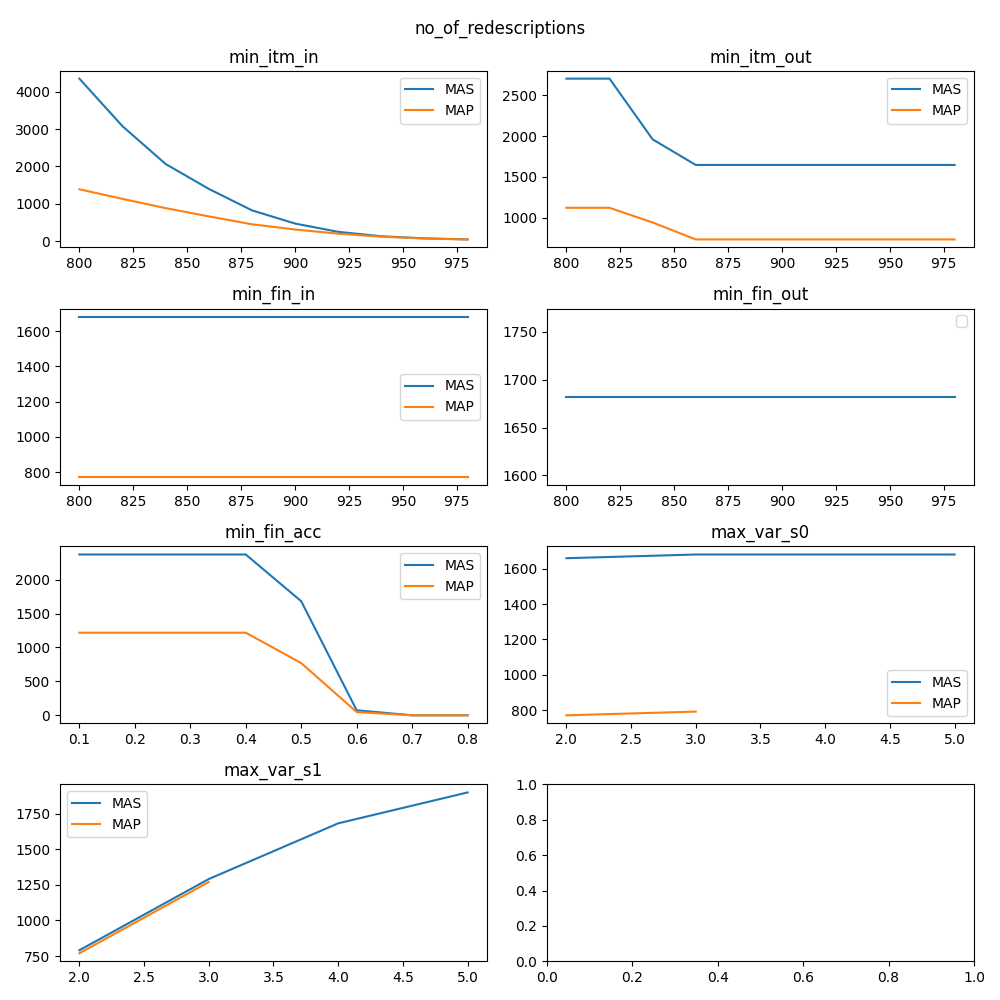
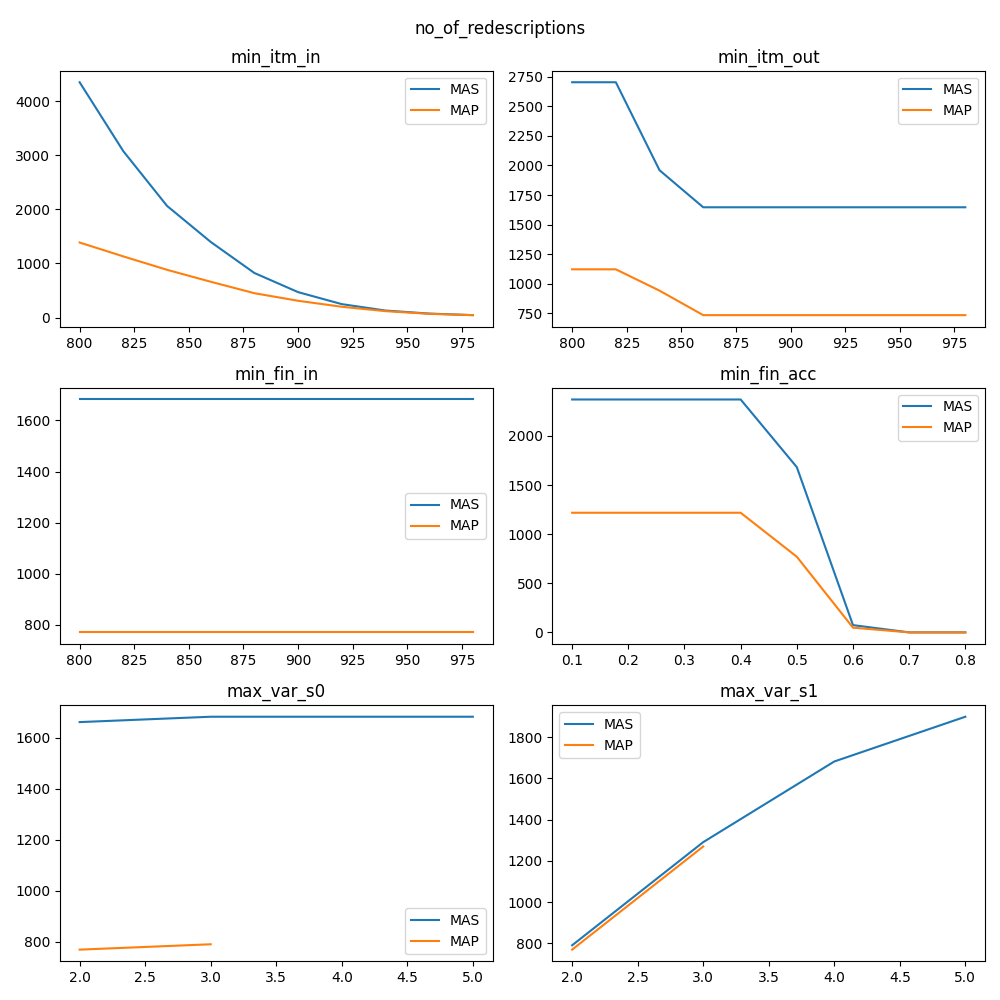
- Updated README.md with x-axis variable explanation, experiement setup - Updated the plots a bit:   - renamed `query_length` to `no_of_queries`   - removed some uninteresting plots.

diff --git a/thesis-playground/plotting.py b/thesis-playground/plotting.py
@@ -21,7 +21,7 @@ def plot_simple(data, x_label, y_label, ax=None, line_label=None):
 
 
 def plot_group(target_metric):
-    fig, axes = plt.subplots(nrows=4, ncols=2, figsize=(10, 10))
+    fig, axes = plt.subplots(nrows=3, ncols=2, figsize=(10, 10))
 
     plt.suptitle(target_metric)
     plot_simple(min_itm_in_mas_data, 'min_itm_in', target_metric, axes[0][0], 'MAS')
@@ -33,16 +33,16 @@ def plot_group(target_metric):
     plot_simple(min_fin_in_mas_data, 'min_fin_in', target_metric, axes[1][0], 'MAS')
     plot_simple(min_fin_in_map_data, 'min_fin_in', target_metric, axes[1][0], 'MAP')
 
-    plot_simple(min_fin_out_mas_data, 'min_fin_out', target_metric, axes[1][1])
+    # plot_simple(min_fin_out_mas_data, 'min_fin_out', target_metric, axes[1][1], 'MAS')
 
-    plot_simple(min_fin_acc_mas_data, 'min_fin_acc', target_metric, axes[2][0], 'MAS')
-    plot_simple(min_fin_acc_map_data, 'min_fin_acc', target_metric, axes[2][0], 'MAP')
+    plot_simple(min_fin_acc_mas_data, 'min_fin_acc', target_metric, axes[1][1], 'MAS')
+    plot_simple(min_fin_acc_map_data, 'min_fin_acc', target_metric, axes[1][1], 'MAP')
 
-    plot_simple(max_var_s0_mas_data, 'max_var_s0', target_metric, axes[2][1], 'MAS')
-    plot_simple(max_var_s0_map_data, 'max_var_s0', target_metric, axes[2][1], 'MAP')
+    plot_simple(max_var_s0_mas_data, 'max_var_s0', target_metric, axes[2][0], 'MAS')
+    plot_simple(max_var_s0_map_data, 'max_var_s0', target_metric, axes[2][0], 'MAP')
 
-    plot_simple(max_var_s1_mas_data, 'max_var_s1', target_metric, axes[3][0], 'MAS')
-    plot_simple(max_var_s1_map_data, 'max_var_s1', target_metric, axes[3][0], 'MAP')
+    plot_simple(max_var_s1_mas_data, 'max_var_s1', target_metric, axes[2][1], 'MAS')
+    plot_simple(max_var_s1_map_data, 'max_var_s1', target_metric, axes[2][1], 'MAP')
 
     plt.tight_layout()
     plt.savefig('./plots-output/' + target_metric + '.png')
@@ -68,7 +68,7 @@ max_var_s1_map_data = map_data[40:42]
 
 target_metrics = [
     "candstore_length",
-    "queries_length",
+    "no_of_queries",
     "no_of_redescriptions",
     "queries_support_min",
     "queries_support_max",

diff --git a/README.md b/README.md
@@ -6,36 +6,90 @@ Frequent Itemset Mining in Redescription Mining
 - Proposal: `thesis/proposal`
 - pseudo code: `thesis/pseudo codes`
 
-# target metrics
+# Experiment setup
+We run the redescription mining algorithms (MAS and MAP) with the following base config:
+```xml
+    <parameter>
+        <name>min_itm_in</name>
+        <value>850</value>
+    </parameter>
+    <parameter>
+        <name>min_itm_out</name>
+        <value>850</value>
+    </parameter>
+    <parameter>
+        <name>min_fin_in</name>
+        <value>850</value>
+    </parameter>
+    <parameter>
+        <name>min_fin_out</name>
+        <value>850</value>
+    </parameter>
+    <parameter>
+        <name>min_fin_acc</name>
+        <value>0.5</value>
+    </parameter>
+```
+For MAS, `max_var_s0` and `max_var_s1` was set like this:
+```xml
+    <parameter>
+        <name>max_var_s0</name>
+        <value>4</value>
+    </parameter>
+    <parameter>
+        <name>max_var_s1</name>
+        <value>4</value>
+    </parameter>
+```
+For MAP, `max_var_s0` and `max_var_s1` was set like this:
+```xml
+    <parameter>
+        <name>max_var_s0</name>
+        <value>2</value>
+    </parameter>
+    <parameter>
+        <name>max_var_s1</name>
+        <value>2</value>
+    </parameter>
+```
+
+From here, we generate a script to run the algorithm using the base config with a varied value of some parameter (e.g. `min_itm_in`) and collect the results for each run.
+## target metrics
 ### candstore_length
 The candidate store is populated during the FIM process (ECLAT).
 If an itemset is frequent, it will be added to the candidate store. `candstore_length` is the length of the candidate store.
 The candidate store is populated during the mining phase.
 
 For MAS (Mine and Split) and FP-Growth, there will be one united candidate store, for MAP(Mine and Pair), there will be 2 sides of candidate stores. 
-### queries_length
+### no_of_queries
 A query is pair of candidates which satisfy the minimum accuracy.
 The set of queries is created during the filtering phase.
-`queries_length` is the length of all found queries found by iterating through the candidate store(s).
+`no_of_queries` is the length of the list of all queries found by iterating through the candidate store(s).
+The `no_of_queries` is expected to equal `no_of_redescriptions`
 ### no_of_redescriptions
-It's the number of redescriptions/literals, which will be returned at the end of the computing expansions process.
-### queries_support_min
-Is the minimum number of supports found in the list of calculated redescriptions/literals.
-### queries_support_max
-Is the maximum number of supports found in the list of calculated redescriptions/literals.
-### queries_support_mean
-Is the mean of number of supports found in the list of calculated redescriptions/literals.
-### queries_support_median
-Is the median of number of supports found in the list of calculated redescriptions/literals.
-### queries_accuracy_min
-Is the minimum value of accuracy found in the list of calculated redescriptions/literals.
-### queries_accuracy_max
-Is the max value of accuracy found in the list of calculated redescriptions/literals.
-### queries_accuracy_mean
-Is the mean of value of accuracy found in the list of calculated redescriptions/literals.
-### queries_accuracy_median
-Is the median of value of accuracy found in the list of calculated redescriptions/literals.
+It's the number of redescriptions, which will be returned at the end of the computing expansions process.
+### queries_support_min, queries_support_max, queries_support_mean, queries_support_median
+Is the minimum/maximum/mean/median number of supports found in the list of calculated redescriptions.
+### queries_accuracy_min, queries_accuracy_max, queries_accuracy_mean, queries_accuracy_median
+Is the minimum/maximum/mean/median value of accuracy found in the list of calculated redescriptions.
 ### mining_duration
-The duration of the mining process (ECLAT)
+The duration of the frequent item set mining phase (ECLAT)
 ### filtering_duration
 The duration of the filtering process (iterating the candidate stores and try to find the pairs of candidates which satisfy the requirements).
+
+## x-axis variables
+### min_itm_in
+This variable is used in the FIM phase, acting as the minimum support to filtering out candidates.
+### min_itm_out
+This's not being used by any of the FIM or filtering phases.
+But I think it's used for candidate generation phase before the two phases above.
+### min_fin_in
+This field is not being used anywhere and has no impact on the results.
+### min_fin_acc
+This field is used to limit the lower bound of accuracy (or similarity, or Jaccard's distance) between two pair of candidates.
+It's used in the filtering phase.
+### max_var_s0, max_var_s1
+This defines the maximum size of a frequent itemset (number of terms in a candidate).
+Looks like it's also being used to filter candidates in the filter process, however I think it's unnecessary since candidates in this stage has to pass that requirement already. // TODO verify this  
+For MAP case `s0` is used for data in the left-hand side, and `s1` for data in the right-hand side.
+For MAS, `s0` and `s1` will be added to use as the upper bound for the size of a candidate.
